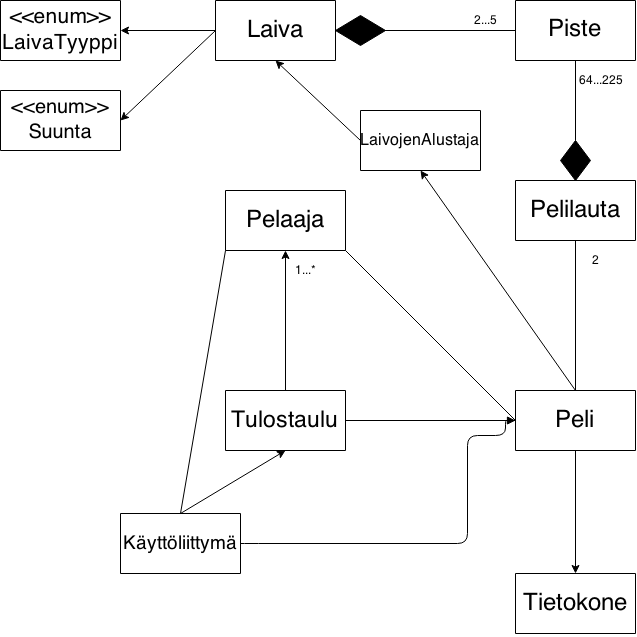
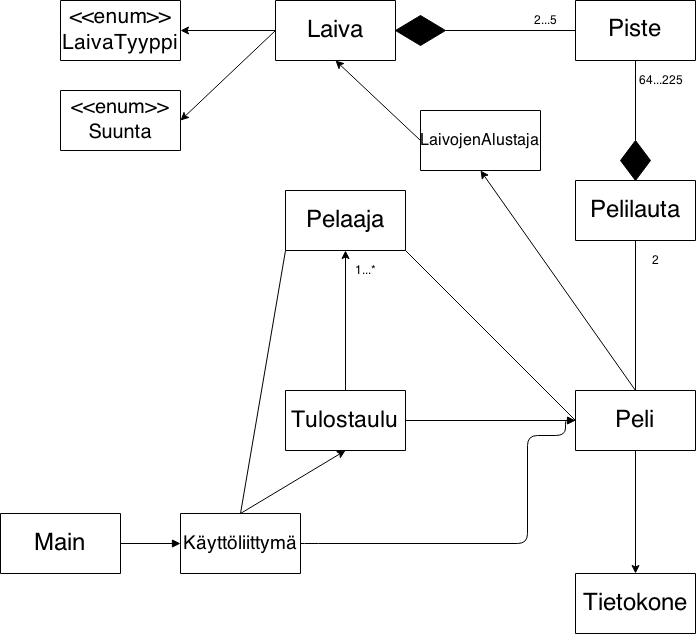
dokumentointia ja kaaviota

diff --git a/laivanupotus/src/main/java/laivanupotus/gui/Kayttoliittyma.java b/laivanupotus/src/main/java/laivanupotus/gui/Kayttoliittyma.java
@@ -139,13 +139,6 @@ public class Kayttoliittyma extends JFrame {
         cont.add(virheLabel);
     }
 
-//    public static void main(String[] args) {
-//        java.awt.EventQueue.invokeLater(new Runnable() {
-//            public void run() {
-//                new Kayttoliittyma().setVisible(true);
-//            }
-//        });
-//    }
     private void aloitaButtonActionPerformed(java.awt.event.ActionEvent e) {
         int x = 0;
         try {
@@ -211,4 +204,8 @@ public class Kayttoliittyma extends JFrame {
         pi.setVisible(true);
     }
     
+    
+    public Pelaaja getPelaaja() {
+        return this.pelaaja;
+    }
 }

diff --git a/laivanupotus/src/main/java/laivanupotus/gui/AmmuKuuntelija.java b/laivanupotus/src/main/java/laivanupotus/gui/AmmuKuuntelija.java
@@ -42,7 +42,7 @@ public class AmmuKuuntelija implements ActionListener {
             p.lisaaPisteita(420);
 
             if (peliIkkuna.getPelilogiikka().getTietokoneenLauta().onkoKaikkiLaivatUpotettu()) {
-                peliIkkuna.setTitle("Pelaaja Voitti!");
+                peliIkkuna.setTitle(peliIkkuna.getPelaaja().getNimi()+" Voitti!");
                 p.lisaaPisteita(1000);
                 peliIkkuna.lopetaPeli();
                 return;

diff --git a/laivanupotus/src/main/java/laivanupotus/gui/PeliIkkuna.java b/laivanupotus/src/main/java/laivanupotus/gui/PeliIkkuna.java
@@ -80,6 +80,10 @@ public class PeliIkkuna extends JFrame {
     public void setPelaaja(Pelaaja pelaaja) {
         this.pelaaja = pelaaja;
     }
+    
+    public Pelaaja getPelaaja() {
+        return pelaaja;
+    }
 
     public void setPelaajanPelilautaPanel(JPanel pelaajanRuudukkoPanel) {
         this.PelaajanPelilautaPanel = pelaajanRuudukkoPanel;

diff --git a/dokumentointi/aihemaarittely.md b/dokumentointi/aihemaarittely.md
@@ -1,6 +1,6 @@
 # Aihe: Laivanupotus
 
-Tarkoitus on tehdä laivanupotuspeli. Peliin tulee mahdollisuus pelata yksin tietokonetta vastaan.
+Tarkoitus on tehdä laivanupotuspeli. Peliin tulee mahdollisuus pelata yksin tietokonetta vastaan. Pelikentän kokoa pystyy vaihtamaan ennen kuin peli aloitetaan.
 
 **Käyttäjät:** 
 * Pelaaja
@@ -12,4 +12,29 @@ Tarkoitus on tehdä laivanupotuspeli. Peliin tulee mahdollisuus pelata yksin tie
 * voi aloittaa pelin
 * voi pelin sisällä yrittää arvata missä vastustajan laivat ovat
 * voi tarkastella ohjeita
-* voi tarkastella pistetuloksia
+
+
+
+
+# Rakennekuvaus
+
+Main-luokka aloittaa ohjelman luomalla uuden Käyttöliittymän. Käyttöliittymässä on valikot ja pelin aloitukseen tarvittavat toiminnallisuudet. Käyttöliittymä luo uuden Peli-luokan kun pelaaja aloittaa pelin painamalla 'aloita peli' -nappulaa. Samalla luodaan Pelaaja, jolle annetaan nimi.
+Pelilogiikkaa ohjaava Peli-luokka luo uuden LaivojenAlustaja-luokan, tietokoneen tekoälyn, pelaajalle ja tietokoneelle pelilaudat. LaivojenAlustajaa käytetään Laiva-olioiden asettelemiseen pelilaudoille. LaivojenAlustaja itse luo tarvittavat laivat.
+
+Pelilauta koostuu Piste-luokan olioista. Pisteiden määrä riippuu siitä kuinka suuri lauta alustetaan. Pisteet ovat tallennettuna Pelilaudalla kaksiulotteiseen taulukkoon. Myös laivat koostuvat piste-olioista. Kun laiva asetetaan laudalle, laivan pisteet käydään läpi ja ne laitetaan pelilaudalle.
+Laivaa luodessa sille määritetään suunta ja tyyppi. Ohjelman laajennettavuuden kannalta laivalla on toiminnallisuus kääntämiseen ja siirtelyyn, jos halutaan luoda ominaisuus itse asettaa laivat ilman satunnaista sijoittelua.
+
+
+# Käyttöohje
+
+Kun peli käynnistetään aukeaa aloitusvalikko. Aloitusvalikosta voi myös avata pelin ohjeet. Aloitusvalikossa pelaaja antaa nimensä ja päättää minkä kokoisilla pelilaudoilla pelataan.
+Tämän jälkeen pelaaja painaa 'aloita peli' -nappulaa jolloin aukeaa uusi ikkuna joka sisältää kaksi reunustettua aluetta. Punaisella reunuksella oleva alue on tietokoneen lauta ja vihreällä reunustettu on pelaajan lauta. Pelaajan laudalla on merkattu laivojen sijainnit '#'-merkillä. Luonnollisesti tietokoneen laudalle ei ole merkattu mitään.
+Pelaaja saa ensimmäisen vuoron ja aloittaa pelin kulun painamalla jotain nappulaa tietokoneen laudalta. Mikäli pelaajan klikkaamassa ruudussa oli tietokoneen laiva, ilmestyy ruutuun '@'-merkki ja väri vaihtuu punaiseksi. Osuman jälkeen saa arvata uuden pisteen laudalta. Ohiammuttuihin pisteisiin vaihdetaan väriksi vaalean sininen ja ne merkataan '~'-merkillä.
+Pelaajan ammuttua ohi, tietokone saa vuoronsa ja yrittää vastaavasti arvata laivan sijaintia pelaajan laudalta. Pelaajan lautaa merkataan samalla tavalla kuin tietokoneen lautaa osumien ja ohiampumisten kannalta.
+Peli päättyy kun toiselta laudalta on upotettu jokainen laiva ja sen perusteella määrittyy voittajaksi se, kenen laivat selvisivät.
+
+Pelilaudalla on yhteensä 6 laivaa:
+- Lentotukialus, 1 kpl, Pituus: 5
+- Risteilijä, 1 kpl, Pituus: 4
+- Sukellusvene, 2 kpl, Pituus: 3
+- Partiovene, 2 kpl, Pituus: 2
